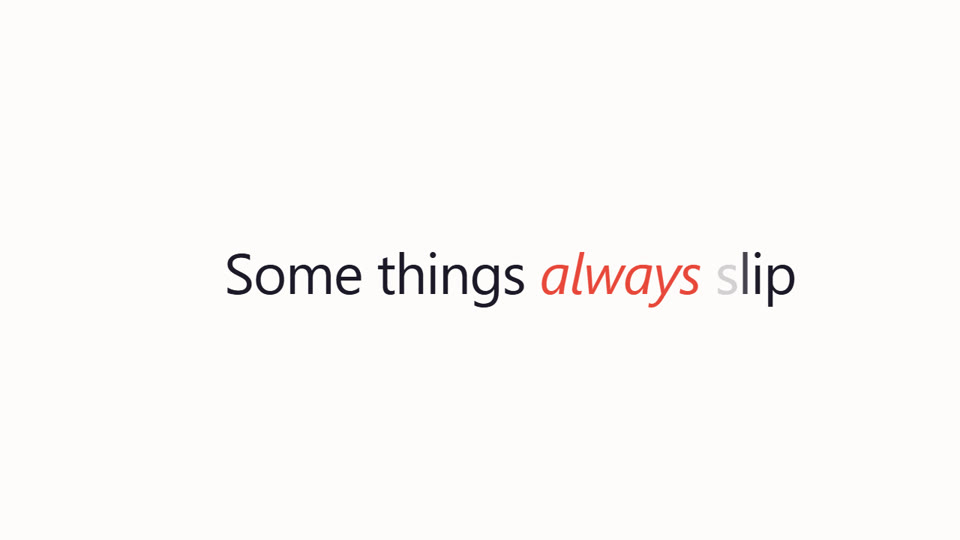
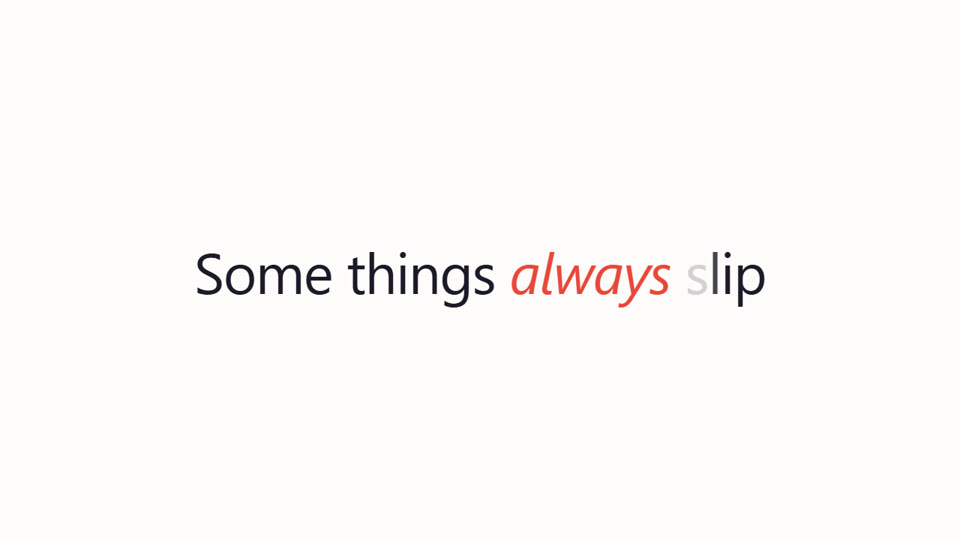
feat(site): overlay-based template picker; fix cedar hook centering
Cards open a modal with a scrollable preview strip and the copy-prompt block; tag chips and detail pages removed; hero copy cut down. Cedar's hook scene carried x:40 tuned for the old copy length - now 0, group is dead-centre; preview regenerated. docs/proposals/ records the composite-build division-of-labor principles as deliberately not-yet-adopted.

Changed region(s): [[0.1875, 0.4444, 0.8438, 0.5926]]

diff --git a/docs/proposals/composite-build-principles.md b/docs/proposals/composite-build-principles.md
@@ -1,0 +1,28 @@
+# Proposal: composite build principles (division of labor)
+
+**Status: recorded, deliberately NOT adopted.** The nightly runbook does not
+reference this document on purpose — we want to see what unguided runs
+converge on before prescribing a method. Do not follow this unless the
+runbook explicitly links here.
+
+How the first product (the mem-derived template that became `cedar`) was
+actually made:
+
+- **One model owned the text layer end to end** — text animations, SVG marks,
+  cuts and transitions. Crucially, where the reference showed real product
+  shots or stock footage, that model did **not** try to recreate them: it
+  replaced them with explicit `[product demonstration here]` slots and kept
+  moving. That is where `product-slot` came from.
+- **Separate models owned the 3D recreation** — the device renders, camera
+  matching, studio sets — working against the same reference independently.
+- **The layers were combined at the end** (overlay compositing), not built
+  interleaved.
+
+Why it worked: each model held one visual grammar in context at a time, and
+the text model's refusal to recreate footage kept it from burning effort on
+the layer another model owned.
+
+If nightly runs plateau below this quality, promote this into
+`docs/runbooks/nightly-template-expansion.md` step 4 as the prescribed
+decomposition (text/transitions vs 3D/footage, slots for what you don't own,
+composite last) and compare the before/after.
